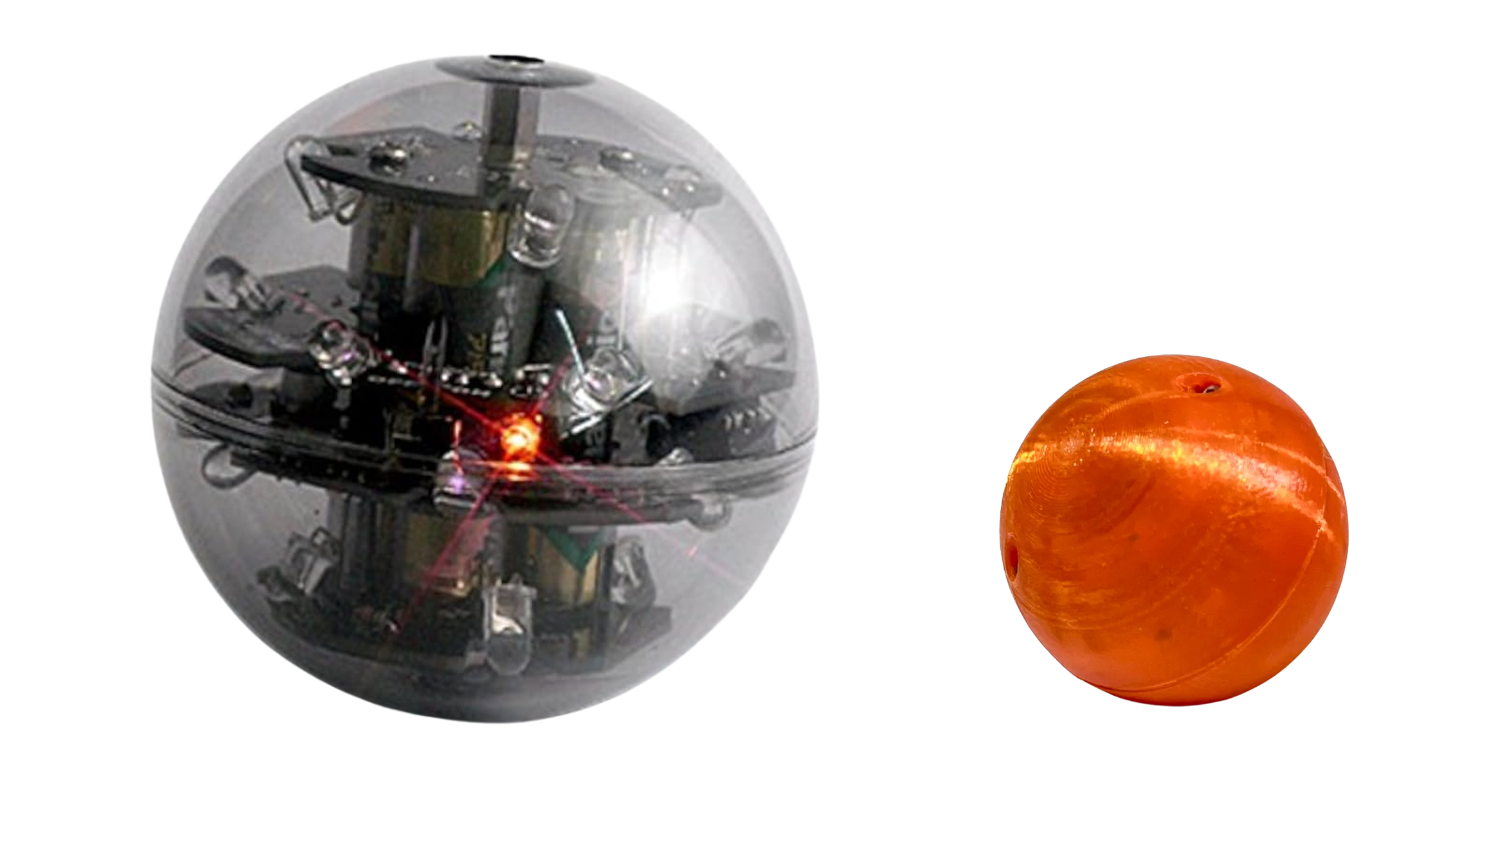
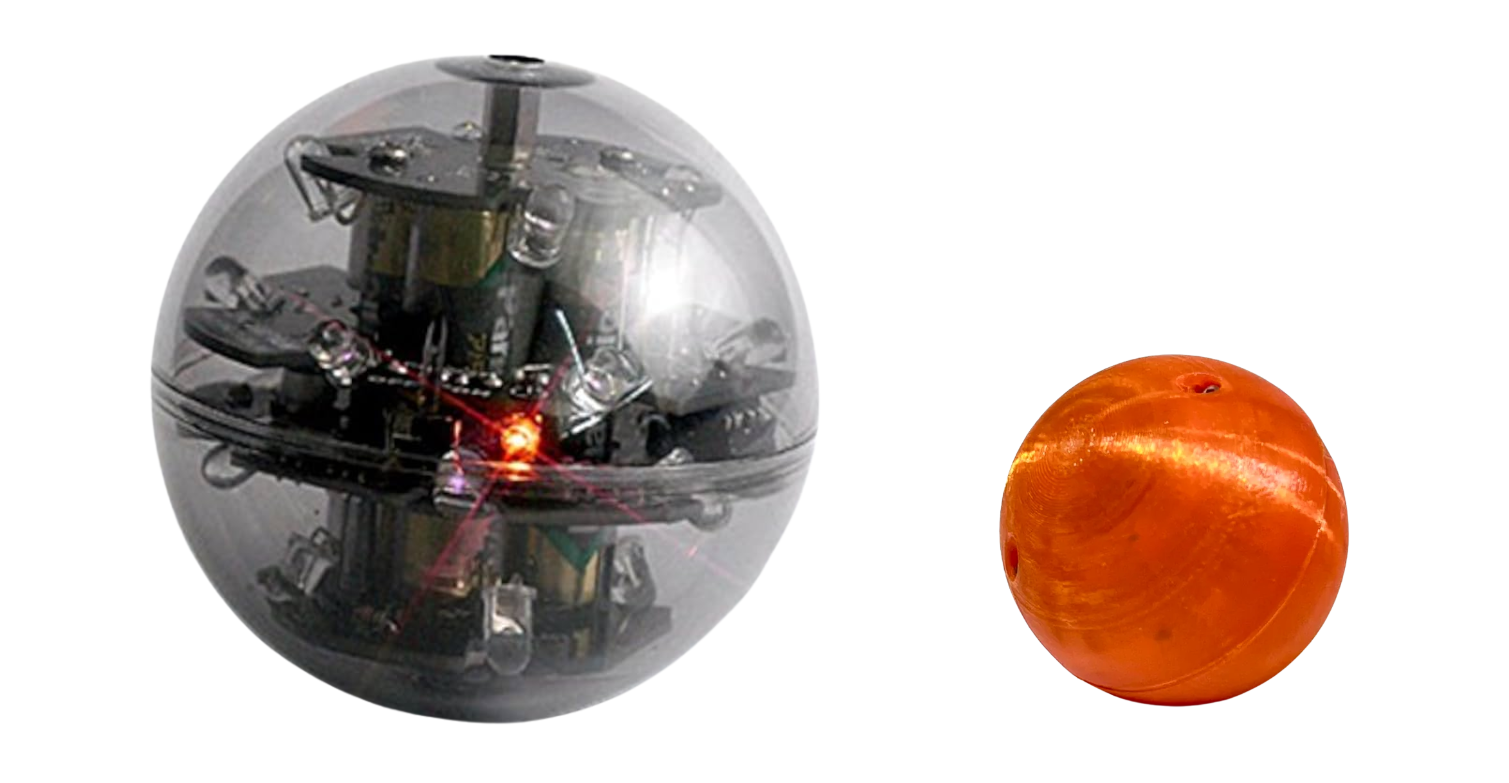
inserted photos

Changed region(s): [[0.0934, 0.0613, 0.5606, 0.9502], [0.6541, 0.3985, 0.9032, 0.9195]]

diff --git a/blog.html b/blog.html
@@ -40,7 +40,7 @@
       <div class="blog-grid">
             <!-- IR ball post-->
       <a class="card" href="posts/IR_post.html">
-        <img class="card__img" src="https://placehold.co/600x400?text=Photo" alt="placeholder image" />
+        <img class="card__img" src="posts/images/oldnewball.png" alt="Photo of the old and new IR ball side to side"/>
         <div class="card__body">
           <div class="card__date">May 25, 2026</div>
           <h3 class="card__title">Adapting to the New IR Ball</h3>
@@ -48,14 +48,14 @@
         </div>
       </a>
 
-
+  
       <!-- offense control deveoplment -->
       <a class="card" href="posts/offense_post.html">
         <img class="card__img" src="https://placehold.co/600x400?text=Photo" alt="placeholder image" />
         <div class="card__body">
           <div class="card__date">June 2, 2026</div>
           <h3 class="card__title">Offense Control Development</h3>
-          <p class="card__preview">How the math behind our striker's ball approach evolved</p>
+          <p class="card__preview">How the math behind our ball approach evolved</p>
         </div>
       </a>
       

diff --git a/css/styles.css b/css/styles.css
@@ -275,7 +275,7 @@ h2 {
 }
 .post__hero {
   width: 100%;
-  height: 320px;
+  height: auto;
   object-fit: cover;
   background: var(--bg-raised-2);
   border-radius: var(--radius);

diff --git a/posts/IR_post.html b/posts/IR_post.html
@@ -36,7 +36,7 @@
       <div class="post__date">May 25, 2026</div>
       <h1 class="post__title">Adapting to the New IR Ball</h1>
 
-      <!-- <img class="post__hero" src="https://placehold.co/1200x600?text=Photo" alt="[describe the photo]" /> -->
+      <img class="post__hero" src="images/oldnewball.png" alt="Photo of the old and new IR ball side to side" /> 
 
       <p>This year's change to the IR ball was quite drastic and forced us to redesign some parts of our bot to be best adapted for gameplay. In this post, we'll talk about what we changed specifically.</p>
 

diff --git a/posts/offense_post.html b/posts/offense_post.html
@@ -49,7 +49,7 @@
       <div class="post__date">June 2, 2026</div>
       <h1 class="post__title">Ball-Approach Control of the Offense Robot</h1>
 
-      <!-- <img class="post__hero" src="https://placehold.co/1200x600?text=Photo" alt="[describe the photo]" /> -->
+      <!- <img class="post__hero" src="https://placehold.co/1200x600?text=Photo" alt="[describe the photo]" /> -->
 
         <p>Our offensive robot's main role is to get behind the ball, line up with the opponent's goal, and push. 
           One part we focused on in our work is getting behind the ball. If the robot drives straight at the ball,